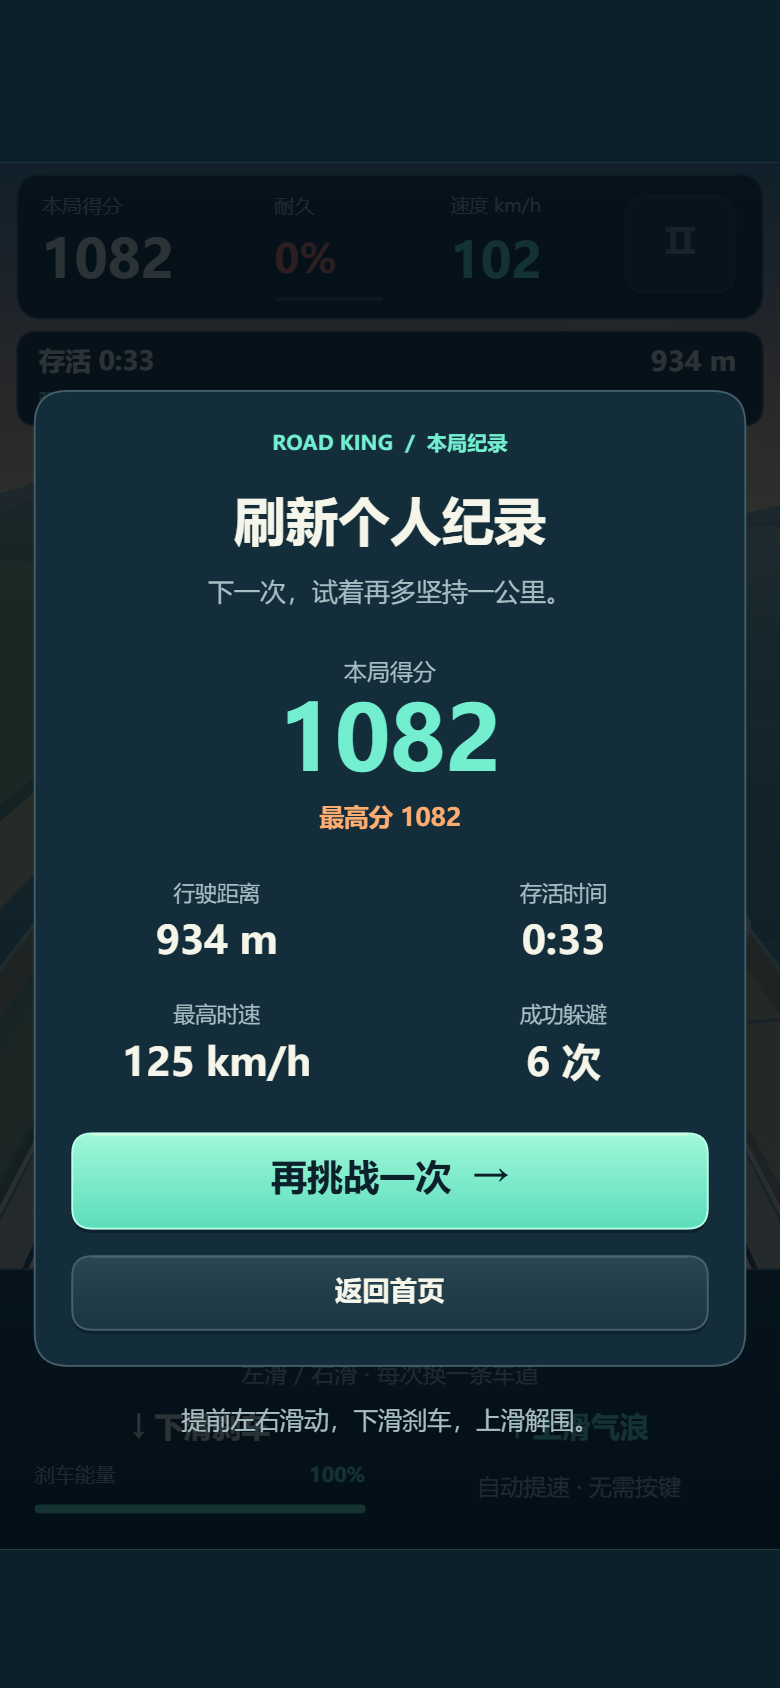
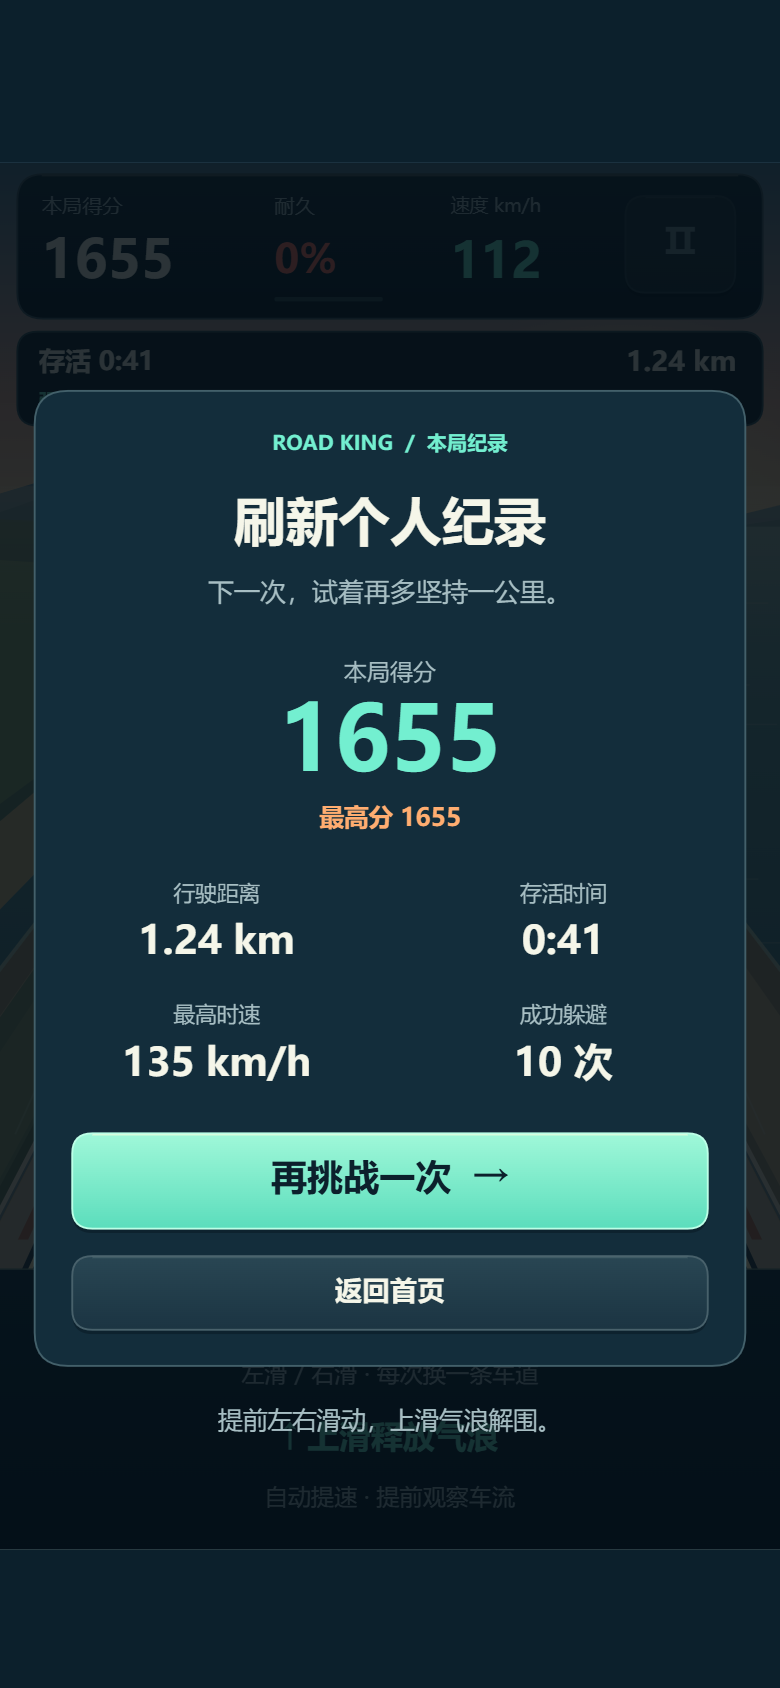
Remove braking mechanics and controls

diff --git a/公路之王/src/game-app.js b/公路之王/src/game-app.js
@@ -12,7 +12,6 @@ class RoadKingApp {
     this.scale=Math.min(p.width/W,(p.height-p.top-p.bottom)/H);
     this.ox=(p.width-W*this.scale)/2;this.oy=p.top+(p.height-p.top-p.bottom-H*this.scale)/2;
     this.buttons=[];this.touchMap={};this.keyboard={};this.queuedLane=null;this.clock=0;this.shake=0;this.newBest=false;
-    this.gestureBrake=0;
     // Blender renders are optional at startup: a missing image keeps its vector fallback.
     this.art={};this.artLoaded=0;this.artErrors=[];
     const assets=['car-player','car-silver','car-blue','car-orange','barrier','tree','rock','hero'];
@@ -36,14 +35,14 @@ class RoadKingApp {
     }
   }
   start(){this.releaseHolds();this.newBest=false;this.game.start(0);}
-  releaseHolds(){this.touchMap={};this.keyboard={};this.queuedLane=null;this.gestureBrake=0;if(this.p.clearKeys)this.p.clearKeys();this.game.setBrake(false);this.game.setThrottle(false);}
+  releaseHolds(){this.touchMap={};this.keyboard={};this.queuedLane=null;if(this.p.clearKeys)this.p.clearKeys();this.game.setThrottle(false);}
   update(dt){
     if(!Number.isFinite(dt)||dt<=0)return;
     let remaining=dt;
     while(remaining>1e-8&&this.game.mode==='playing'){
-      const step=Math.min(remaining,.05,this.gestureBrake>1e-8?this.gestureBrake:Infinity);
+      const step=Math.min(remaining,.05);
       this.game.update(step);this.flushLane();
-      this.gestureBrake=Math.max(0,this.gestureBrake-step);this.updateHolds();remaining-=step;
+      this.updateHolds();remaining-=step;
     }
   }
   changeLane(direction){
@@ -59,7 +58,7 @@ class RoadKingApp {
     if(direction)this.game.changeLane(direction);
     if(this.game.lane===this.queuedLane)this.queuedLane=null;
   }
-  setKeyboardHolds(brake,throttle){this.keyboard={brake,throttle};this.updateHolds();}
+  setKeyboardHolds(throttle){this.keyboard={throttle};this.updateHolds();}
   point(t){return{x:((t.clientX==null?t.x:t.clientX)-this.ox)/this.scale,y:((t.clientY==null?t.y:t.clientY)-this.oy)/this.scale};}
   inside(p,b){return p.x>=b.x&&p.x<=b.x+b.w&&p.y>=b.y&&p.y<=b.y+b.h;}
   touchStart(e){
@@ -83,14 +82,13 @@ class RoadKingApp {
         if(item.axis){
           item.used=true;
           if(item.axis==='x')this.changeLane(Math.sign(dx));
-          else if(dy>0){this.gestureBrake=.85;this.updateHolds();}
-          else this.game.pulse();
+          else if(dy<0)this.game.pulse();
         }
       }
     });
   }
   touchEnd(e){(e.changedTouches||[]).forEach(t=>{delete this.touchMap[t.identifier==null?0:t.identifier];});this.updateHolds();}
-  updateHolds(){this.game.setBrake(!!this.keyboard.brake||this.gestureBrake>1e-8);this.game.setThrottle(!!this.keyboard.throttle);}
+  updateHolds(){this.game.setThrottle(!!this.keyboard.throttle);}
   toggleSound(){this.muted=!this.muted;this.p.write('roadking.muted.v1',this.muted);if(this.muted)this.p.stopSound();}
 
   rr(x,y,w,h,r,fill,stroke){
@@ -166,7 +164,6 @@ class RoadKingApp {
       else if(car.kind==='barrier')this.barrier(a.x,a.y,a.p,car.hit);else this.car(a.x,a.y,a.p,car.threat?C.orange:car.id%2?'#b7c3b7':'#608b98',false,car.hit);
       if(!menu&&car.warningTimer>0&&car.signalDirection){const y=a.y-137*a.p;this.rr(a.x-37,y,74,28,8,C.orange,'#ffe0a2');this.txt(car.signalDirection<0?'← 变线':'变线 →',a.x,y+14,15,C.ink,'bold','center');}
     });
-    if(!menu&&g.braking){const a=this.projection(0,g.playerX);this.line(a.x-24,740,a.x-26,757,C.orange,4);this.line(a.x+24,740,a.x+26,757,C.orange,4);}
     const haze=c.createLinearGradient(0,224,0,330);haze.addColorStop(0,'rgba(255,229,185,.28)');haze.addColorStop(1,'rgba(255,229,185,0)');c.fillStyle=haze;c.fillRect(0,224,W,106);
   }
   scenery(name,x,y,w,h){
@@ -190,7 +187,6 @@ class RoadKingApp {
       if(player)c.rotate(Math.max(-.065,Math.min(.065,(this.game.lane-this.game.playerX)*.09)));
       this.groundShadow(-7*p,-23*p,44*p,24*p);
       c.drawImage(img,-w*.5,-h*.92,w,h);
-      if(player&&this.game.braking){c.fillStyle='rgba(255,92,59,.65)';c.beginPath();c.ellipse(-23*p,-16*p,7*p,3*p,0,0,Math.PI*2);c.ellipse(23*p,-16*p,7*p,3*p,0,0,Math.PI*2);c.fill();}
       c.restore();return;
     }
     const c=this.ctx,w=53*p,h=93*p;c.save();c.translate(x,y);if(hit)c.globalAlpha=.48;
@@ -216,7 +212,7 @@ class RoadKingApp {
     this.txt('越开越快',29,287,26,C.white,'bold');this.txt('越躲越险',29,327,26,C.white,'bold');this.line(30,355,65,355,C.orange,3);this.txt('下一公里，',29,385,16,'#d2ded4');this.txt('由你的反应决定。',29,409,16,'#d2ded4');
     if(this.art.hero){this.groundShadow(355,439,130,21);c.drawImage(this.art.hero,158,215,388,259);}else this.car(398,412,1.65,C.cyan,true,false);
     this.rr(24,458,492,91,17,'rgba(23,51,63,.96)','#476069');this.txt('个人最高分',43,482,14,C.mute);this.txt(Math.round(this.best.score),43,519,37,C.cyan,'bold');this.txt('最远 '+distance(this.best.distance),493,486,17,C.white,'bold','right');this.txt('最长 '+duration(this.best.elapsed),493,518,16,C.mute,'normal','right');
-    const tips=[['01','自动提速','越开越快，提前观察远处车流。'],['02','左右滑动','每次滑动换一条车道，连续滑动闪避。'],['03','上下滑动','下滑短时刹车，上滑释放气浪。']];
+    const tips=[['01','自动提速','越开越快，提前观察远处车流。'],['02','左右滑动','每次滑动换一条车道，连续滑动闪避。'],['03','上滑气浪','向上滑动释放气浪，推开近前车辆。']];
     tips.forEach((tip,i)=>{const y=581+i*58;this.rr(29,y-9,30,29,8,'#263e48');this.txt(tip[0],44,y+6,13,C.orange,'bold','center');this.txt(tip[1],78,y,19,C.white,'bold');this.txt(tip[2],78,y+26,16,C.mute);});
     this.button(24,775,492,76,'开始挑战  →',()=>this.start(),{primary:true,size:28});this.txt('车流越来越密 · 活得越久，得分越高',270,878,16,C.white,'normal','center');
     this.button(24,904,148,35,this.muted?'音效：关':'音效：开',()=>this.toggleSound(),{size:14,radius:9});this.txt('单局无尽 · 随时再来一局',515,922,14,C.mute,'normal','right');
@@ -231,9 +227,8 @@ class RoadKingApp {
     if(playing&&g.elapsed<7){this.rr(111,276,318,42,12,'rgba(10,27,38,.88)');this.txt('← 左右滑动，连续闪避 →',270,297,18,C.white,'bold','center');}
     const controls=c.createLinearGradient(0,766,0,H);controls.addColorStop(0,'#163747');controls.addColorStop(1,'#0b202e');c.fillStyle=controls;c.fillRect(0,766,W,194);this.line(0,766,W,766,'#769082');
     this.txt('←',99,814,39,C.cyan,'bold','center');this.txt('滑动驾驶',270,807,26,C.white,'bold','center');this.txt('→',441,814,39,C.cyan,'bold','center');this.txt('左滑 / 右滑 · 每次换一条车道',270,840,16,C.mute,'normal','center');
-    this.txt(this.gestureBrake>0?'↓ 正在刹车':'↓ 下滑刹车',139,877,20,this.gestureBrake>0?C.orange:C.white,'bold','center');this.txt(g.pulseCooldown>0?'↑ 气浪 '+Math.ceil(g.pulseCooldown)+'s':'↑ 上滑气浪',401,877,20,g.pulseCooldown>0?C.mute:C.cyan,'bold','center');
-    const energy=g.brakeEnergy==null?100:g.brakeEnergy;this.txt('刹车能量',24,910,14,C.mute);this.txt(Math.round(energy)+'%',253,910,14,C.cyan,'bold','right');this.rr(24,929,229,6,3,'#304952');if(energy>0)this.rr(24,929,Math.max(1,229*energy/100),6,3,C.cyan);
-    this.txt('自动提速 · 无需按键',401,918,16,C.mute,'normal','center');
+    this.txt(g.pulseCooldown>0?'↑ 气浪 '+Math.ceil(g.pulseCooldown)+'s':'↑ 上滑释放气浪',270,884,22,g.pulseCooldown>0?C.mute:C.cyan,'bold','center');
+    this.txt('自动提速 · 提前观察车流',270,925,16,C.mute,'normal','center');
   }
   scrim(){this.ctx.fillStyle='rgba(3,12,19,.83)';this.ctx.fillRect(0,0,W,H);this.buttons=[];}
   drawPause(){
@@ -245,7 +240,7 @@ class RoadKingApp {
     this.txt('本局得分',270,354,16,C.mute,'normal','center');this.txt(Math.round(g.score),270,405,62,C.cyan,'bold','center');this.txt('最高分 '+Math.round(this.best.score),270,455,17,this.newBest?C.orange:C.mute,'bold','center');
     const stats=[['行驶距离',distance(g.distance)],['存活时间',duration(g.elapsed)],['最高时速',Math.round(g.maxSpeed||g.speed)+' km/h'],['成功躲避',number(g.dodged)+' 次']];
     stats.forEach((stat,i)=>{const x=i%2===0?150:390,y=i<2?507:591;this.txt(stat[0],x,y,15,C.mute,'normal','center');this.txt(stat[1],x,y+34,27,C.white,'bold','center');});
-    this.button(50,672,440,66,'再挑战一次  →',()=>this.start(),{primary:true,size:25});this.button(50,757,440,51,'返回首页',()=>{this.releaseHolds();this.game.menu();},{size:19});this.txt('提前左右滑动，下滑刹车，上滑解围。',270,872,17,C.mute,'normal','center');
+    this.button(50,672,440,66,'再挑战一次  →',()=>this.start(),{primary:true,size:25});this.button(50,757,440,51,'返回首页',()=>{this.releaseHolds();this.game.menu();},{size:19});this.txt('提前左右滑动，上滑气浪解围。',270,872,17,C.mute,'normal','center');
   }
 }
 module.exports=RoadKingApp;

diff --git a/tests/game-core.test.js b/tests/game-core.test.js
@@ -125,7 +125,7 @@ test('a run settles once on the fourth hit and retry resets all challenge resour
   const events = [];
   const game = fresh(137, (type, data) => events.push({ type, data }));
   noSpawns(game);
-  game.update(80); game.pulse(); game.setSignal(1); game.setBrake(true); game.update(0.5);
+  game.update(80); game.pulse(); game.setSignal(1); game.update(0.5);
   for (let i = 0; i < 4; i++) { game.invulnerability = 0; car(game); game._updateTraffic(0.001); }
   game.update(0.01);
   assert.equal(game.mode, 'result');
@@ -140,9 +140,7 @@ test('a run settles once on the fourth hit and retry resets all challenge resour
     assert.equal(game[name], 0, name);
   assert.equal(game.level, 0);
   assert.equal(game.health, 100);
-  assert.equal(game.brakeEnergy, 100);
-  assert.equal(game.brakeLocked, false);
-  assert.equal(game.braking, false);
+  assert.equal(game.braking, undefined);
   assert.equal(game.lane, 0);
   assert.equal(game.playerX, 0);
   assert.equal(game.mode, 'playing');
@@ -151,10 +149,10 @@ test('a run settles once on the fourth hit and retry resets all challenge resour
   assert.ok(game.difficulty.cruiseSpeed < 85);
 });
 
-test('pause freezes clocks, cars and brake energy; resume and menu obey mode guards', () => {
+test('pause freezes clocks and cars; resume and menu obey mode guards', () => {
   const game = fresh(); noSpawns(game);
   car(game, 1, 15);
-  game.setSignal(-1); game.pulse(); game.setBrake(true); game.update(0.5);
+  game.setSignal(-1); game.pulse(); game.update(0.5);
   game.setThrottle(true); game.pause();
   const before = JSON.stringify(game);
   game.update(25);
@@ -163,7 +161,6 @@ test('pause freezes clocks, cars and brake energy; resume and menu obey mode gua
   assert.equal(game.pulse(), false);
   assert.equal(game.setSignal(1), false);
   assert.equal(game.throttle, false);
-  assert.equal(game.brake, false);
   assert.equal(game.resume(), true);
   game.update(0.1);
   assert.ok(game.elapsed > 0.5);
@@ -209,29 +206,10 @@ test('pulse has a ten-second cooldown and affects only cars in its visible range
   assert.equal(game.pulsesUsed, 2);
 });
 
-test('holding brake spends a finite reserve; release restores it and throttle is secondary', () => {
-  const game = fresh(); noSpawns(game);
-  game.update(120);
-  const cruising = game.speed;
-  game.setThrottle(true); game.update(1);
-  assert.ok(game.speed > cruising);
-  game.setBrake(true); game.update(1);
-  assert.ok(game.speed < cruising);
-  assert.ok(game.brakeEnergy < 100 && game.brakeEnergy > 0);
-  assert.equal(game.braking, true);
-  game.update(14);
-  assert.equal(game.brakeEnergy, 0);
-  assert.equal(game.brakeLocked, true);
-  assert.equal(game.braking, false);
-  assert.ok(game.speed >= game.difficulty.cruiseSpeed - 5, 'an exhausted held brake cannot hold low speed');
-  game.update(10);
-  assert.equal(game.brakeEnergy, 0, 'holding after exhaustion cannot recharge');
-  game.setBrake(false); game.setThrottle(false); game.update(15);
-  assert.equal(game.brakeLocked, false);
-  assert.equal(game.brakeEnergy, 100);
-  game.setBrake(true); game.update(0.5);
-  assert.equal(game.braking, true);
-  assert.ok(game.speed < game.difficulty.cruiseSpeed);
+test('brake API and energy reserve are removed', () => {
+  const game = fresh();
+  assert.equal(game.setBrake, undefined);
+  assert.equal(game.brakeEnergy, undefined);
 });
 
 test('the same seed reproduces traffic across normal frame chunk sizes', () => {
@@ -291,7 +269,6 @@ test('visible lane choices support six-minute runs across seeds as real traffic 
     assert.equal(game.health, 100, `seed ${seed}: readable traffic should be avoidable`);
     assert.equal(game.collisions, 0);
     assert.equal(game.pulsesUsed, 0, 'basic survival does not require an emergency ability');
-    assert.equal(game.brakeEnergy, 100);
     assert.ok(game.dodged > 100);
     const early = waves.filter(wave => wave.elapsed < 30);
     const late = waves.filter(wave => wave.elapsed >= 300 && wave.elapsed < 330);

diff --git a/公路之王/src/game-core.js b/公路之王/src/game-core.js
@@ -44,10 +44,7 @@ class RoadKingCore {
     this.signalsUsed = 0;
     this.pulsesUsed = 0;
     this.throttle = false;
-    this.brake = false;
-    this.braking = false;
-    this.brakeEnergy = 100;
-    this.brakeLocked = false;
+
     this._nextTraffic = 1.4;
     this._nextId = 1;
     this._safeLane = 0;
@@ -107,19 +104,9 @@ class RoadKingCore {
       this.signalTimer += dt;
       if (this.signalTimer > 6) { this.signalDirection = 0; this.signalTimer = 0; }
     }
-    this.braking = this.brake && !this.brakeLocked && this.brakeEnergy > 0;
-    if (this.braking) {
-      this.brakeEnergy = Math.max(0, this.brakeEnergy - 28 * dt);
-      if (this.brakeEnergy <= 1e-8) {
-        this.brakeEnergy = 0;
-        this.brakeLocked = true;
-        this.braking = false;
-        this._message('刹车能量耗尽 · 松开后恢复', 2.5);
-      }
-    } else if (!this.brake) this.brakeEnergy = Math.min(100, this.brakeEnergy + 15 * dt);
     const cruise = this.difficulty.cruiseSpeed;
-    const desired = this.braking ? Math.max(32, cruise * 0.45) : Math.min(240, cruise + (this.throttle ? 22 : 0));
-    this.speed = moveTowards(this.speed, desired, dt * (this.braking ? 120 : this.throttle ? 45 : 24));
+    const desired = Math.min(240, cruise + (this.throttle ? 22 : 0));
+    this.speed = moveTowards(this.speed, desired, dt * (this.throttle ? 45 : 24));
     this.maxSpeed = Math.max(this.maxSpeed, this.speed);
     this.distance += this.speed / 3.6 * dt;
     const distanceScore = Math.floor(this.distance * 1.5);
@@ -187,14 +174,9 @@ class RoadKingCore {
   }
 
   setThrottle(held) { this.throttle = this.mode === 'playing' && !!held; }
-  setBrake(held) {
-    this.brake = this.mode === 'playing' && !!held;
-    if (this.brake && this.brakeEnergy <= 0) this.brakeLocked = true;
-    if (!this.brake) { this.brakeLocked = false; this.braking = false; }
-  }
   pause() {
     if (this.mode !== 'playing') return false;
-    this.setBrake(false); this.setThrottle(false);
+    this.setThrottle(false);
     this.mode = 'paused';
     this._emit('mode', { mode: this.mode });
     return true;
@@ -206,7 +188,7 @@ class RoadKingCore {
     return true;
   }
   menu() {
-    this.setBrake(false); this.setThrottle(false);
+    this.setThrottle(false);
     this.mode = 'menu';
     this._emit('mode', { mode: this.mode });
   }
@@ -260,7 +242,7 @@ class RoadKingCore {
   _updateTraffic(dt) {
     if (!Number.isFinite(dt) || dt <= 0) return;
     // Moving traffic slows behind the next wave. This preserves the spacing
-    // around stationary roadblocks, including while the player is braking.
+    // around stationary roadblocks.
     const waves = new Map();
     for (const car of this.traffic) {
       if (car.escaped || car.hit || car.passed || !car.waveId) continue;
@@ -329,7 +311,7 @@ class RoadKingCore {
     this.resultReason = reason;
     this.mode = 'result';
     this.stars = 0;
-    this.throttle = this.brake = this.braking = false;
+    this.throttle = false;
     this._emit('result', {
       level: 0, won: false, reason, stars: 0, score: this.score,
       health: this.health, clearedEvents: 0, eventCount: 0,
@@ -352,3 +334,4 @@ function moveTowards(value, target, delta) {
 
 module.exports = RoadKingCore;
 module.exports.RoadKingCore = RoadKingCore;
+

diff --git a/tests/game-app.test.js b/tests/game-app.test.js
@@ -10,7 +10,7 @@ function fixture(){
 }
 test('tap and small diagonal motion do not change lanes',()=>{const {a,swipe}=fixture();swipe(10,10);swipe(60,60);assert.equal(a.game.lane,0);assert.equal(a.game.pulseCooldown,0);});
 test('long swipe changes one lane; subsequent swipe can queue next lane',()=>{const {a,event,swipe}=fixture();a.touchStart(event(270,540));a.touchMove(event(180,540));a.touchMove(event(60,540));assert.equal(a.game.lane,-1);a.touchEnd(event(60,540));swipe(100,0);swipe(100,0);a.update(.5);assert.equal(a.game.lane,1);});
-test('footer down swipe brakes briefly after finger lifts then releases',()=>{const {a,swipe}=fixture();swipe(0,60,850);assert.equal(a.game.brake,true);a.update(.8);assert.equal(a.game.brake,true);a.update(.1);assert.equal(a.game.brake,false);assert.ok(a.game.brakeEnergy<100);});
+test('down swipe does not change speed or lane',()=>{const {a,swipe}=fixture();const speed=a.game.speed;swipe(0,60,850);assert.equal(a.game.speed,speed);assert.equal(a.game.lane,0);assert.equal(a.game.pulseCooldown,0);assert.equal(a.game.setBrake,undefined);});
 test('up swipe activates pulse and cooldown rejects repeated swipe',()=>{const {a,swipe}=fixture();swipe(0,-80);assert.equal(a.game.pulseCooldown,10);a.update(.1);swipe(0,-80);assert.ok(a.game.pulseCooldown<10);});
-test('secondary fingers do not issue gestures and cancel releases braking',()=>{const {a,p,event}=fixture();a.touchStart(event(270,540,1));a.touchStart(event(270,540,2));a.touchMove(event(370,540,2));assert.equal(a.game.lane,0);a.touchMove(event(270,640,1));assert.equal(a.game.brake,true);p.handlers[3]();assert.equal(a.game.brake,false);assert.equal(a.gestureBrake,0);});
-test('background clears queued lane and swipe brake before pausing',()=>{const {a,p,swipe}=fixture();swipe(0,80);p.life[0]();assert.equal(a.game.mode,'paused');assert.equal(a.game.brake,false);assert.equal(a.queuedLane,null);a.update(2);assert.equal(a.game.elapsed,0);});
+test('secondary fingers do not issue gestures and cancel clears gestures',()=>{const {a,p,event}=fixture();a.touchStart(event(270,540,1));a.touchStart(event(270,540,2));a.touchMove(event(370,540,2));assert.equal(a.game.lane,0);a.touchMove(event(270,640,1));p.handlers[3]();assert.deepEqual(a.touchMap,{});});
+test('background clears queued lane before pausing',()=>{const {a,p,swipe}=fixture();swipe(0,80);p.life[0]();assert.equal(a.game.mode,'paused');assert.equal(a.queuedLane,null);a.update(2);assert.equal(a.game.elapsed,0);});

diff --git a/preview/browser-platform.js b/preview/browser-platform.js
@@ -148,14 +148,13 @@
     const game = core();
     if (!game) return;
     window.roadKingApp.setKeyboardHolds(
-      held.has('KeyS') || held.has('ArrowDown') || held.has('Space'),
       held.has('KeyW') || held.has('ArrowUp')
     );
   }
   window.addEventListener('keydown', event => {
     const game = core();
     if (!game) return;
-    const keys = ['KeyA', 'KeyD', 'KeyW', 'KeyS', 'KeyF', 'KeyR', 'ArrowLeft', 'ArrowRight', 'ArrowUp', 'ArrowDown', 'Space', 'Escape', 'Enter'];
+    const keys = ['KeyA', 'KeyD', 'KeyW', 'KeyF', 'KeyR', 'ArrowLeft', 'ArrowRight', 'ArrowUp', 'Escape', 'Enter'];
     if (!keys.includes(event.code)) return;
     event.preventDefault();
     held.add(event.code); updateHeld();

diff --git a/docs/endless-mode.md b/docs/endless-mode.md
@@ -4,7 +4,7 @@
 
 ## 一局流程
 
-点击开始，从中间车道出发。车辆自动巡航，玩家通过左右换道、短时刹车和气浪解围。没有终点或必须完成的事件数；只在耐久耗尽时结算。得分随行驶距离和成功躲避障碍增长，碰撞扣分。结算显示距离、存活时间、最高车速和躲避数量，再挑战会重置整局难度和车辆状态。
+点击开始，从中间车道出发。车辆自动巡航，玩家通过左右换道和气浪解围。没有终点或必须完成的事件数；只在耐久耗尽时结算。得分随行驶距离和成功躲避障碍增长，碰撞扣分。结算显示距离、存活时间、最高车速和躲避数量，再挑战会重置整局难度和车辆状态。
 
 ## 难度与公平性
 
@@ -18,7 +18,6 @@
 | 内容加入时间 | 18 秒双道障碍、25 秒路障、40 秒橙车预告变线、55 秒错位车流 |
 | 阶段提示 | 每 30 秒提升一档，最多 6 档；车速与密度继续趋近安全上限 |
 | 换道 | 每格约 0.2 秒，快速连续输入可缓冲到目标车道 |
-| 刹车能量 | 每秒消耗 28，松开每秒恢复 15；满能量可刹车约 3.6 秒 |
 
 每组障碍保留至少一个安全车道；相邻组的安全车道最多横移一格。动态车辆只在本组其他车道内变线，避免封住预留出口。难度有速度、反应时间和生成频率的边界，以免无限增长到无法操作或无法辨认。
 
@@ -26,13 +25,13 @@
 
 ## 应急资源
 
-手机驾驶采用滑动操作：左右滑动每次换一条车道，下滑短刹 0.85 秒后自动松开，上滑释放气浪。公路和底部提示区均可滑动，不再提供驾驶按钮。刹车消耗能量，自动松开后恢复能量。后期刹车只能短暂降低当前速度，不能回到旧版 25 km/h 持续慢行。气浪保留范围与冷却，推开近前车辆；固定路障仍需避让。普通换道始终是主要操作。
+手机驾驶采用滑动操作：左右滑动每次换一条车道，上滑释放气浪。公路和底部提示区均可滑动，不再提供驾驶按钮。气浪保留范围与冷却，推开近前车辆；固定路障仍需避让。普通换道始终是主要操作。
 
 ## 界面与纪录
 
-主菜单仅保留一个开始入口。HUD 显示车速、难度、距离、时长、耐久、得分和刹车能量。暂停页可继续、重开或返回首页。最高分、最长距离与最长存活时间作为无尽模式独立纪录保存，避免与旧关卡分数混算。
+主菜单仅保留一个开始入口。HUD 显示车速、难度、距离、时长、耐久、得分。暂停页可继续、重开或返回首页。最高分、最长距离与最长存活时间作为无尽模式独立纪录保存，避免与旧关卡分数混算。
 
 ## 验证
 
-规则测试覆盖长局不自动结束、难度增长、碰撞、暂停、刹车能量、重试、结算防重入、障碍通路以及多个随机种子的公共操作实跑。浏览器预览检查共享 Canvas 界面、键盘/触控、暂停和纪录持久化，包含 390×844 与 320×568 视口。实际测试结果及数值见游戏目录 README 和 `research/endless-preview/`；浏览器不等同于手机真机。
+规则测试覆盖长局不自动结束、难度增长、碰撞、暂停、重试、结算防重入、障碍通路以及多个随机种子的公共操作实跑。浏览器预览检查共享 Canvas 界面、键盘/触控、暂停和纪录持久化，包含 390×844 与 320×568 视口。实际测试结果及数值见游戏目录 README 和 `research/endless-preview/`；浏览器不等同于手机真机。
 

diff --git a/公路之王/README.md b/公路之王/README.md
@@ -13,14 +13,13 @@
 | 操作 | 手机触控 | 浏览器键盘 |
 | --- | --- | --- |
 | 左右换道 | 左右滑动，每次换一条车道 | A / D 或 ← / → |
-| 应急刹车 | 向下滑动，短刹 0.85 秒后自动松开 | S / ↓ / 空格 |
 | 加速 | 自动巡航持续提速，无需按键 | W / ↑ 可额外加速 |
 | 气浪解围 | 向上滑动，推开近前车辆 | F |
 | 暂停/继续 | 右上角暂停按钮 | Esc |
 | 开始/再挑战 | 首页或结算页主按钮 | Enter |
 | 立即重开 | 暂停页重新开始 | R |
 
-公路和底部提示区都支持滑动，没有驾驶操作按钮。每次滑动只触发一次操作，连续两次左右滑动可跨两条车道。换道不消耗能量，下滑短刹消耗能量，自动松开后恢复；后期刹车也不能降回开局车速。气浪冷却 10 秒，只推开近前车辆，固定路障仍需换道。离开页面或切到后台会暂停并释放按住的操作，回来后手动继续。
+公路和底部提示区都支持滑动，没有驾驶操作按钮。每次滑动只触发一次操作，连续两次左右滑动可跨两条车道。左右滑动换道，上滑释放气浪。气浪冷却 10 秒，只推开近前车辆，固定路障仍需换道。离开页面或切到后台会暂停并释放按住的操作，回来后手动继续。
 
 ## 无尽规则
 
